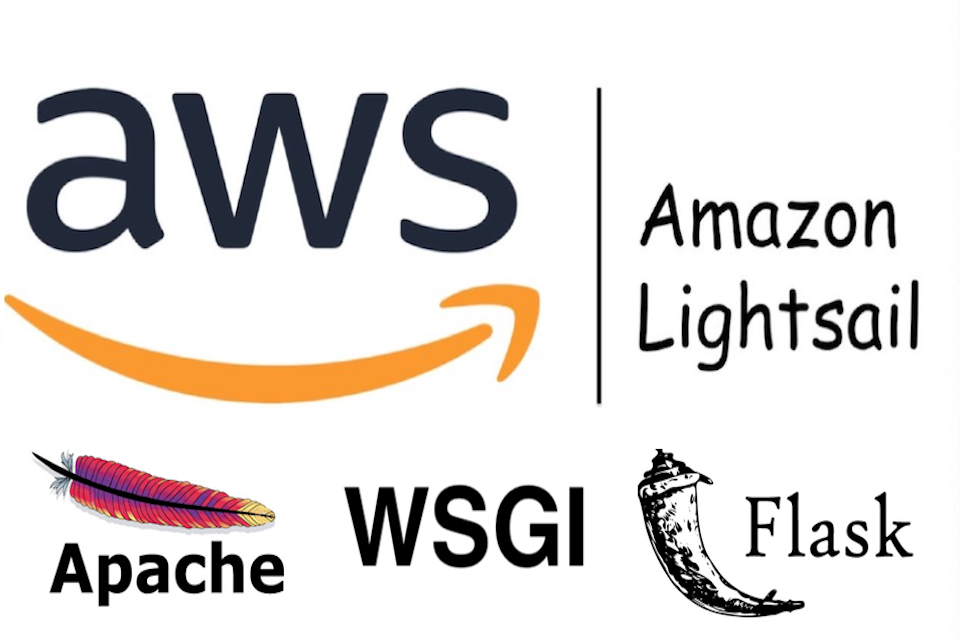
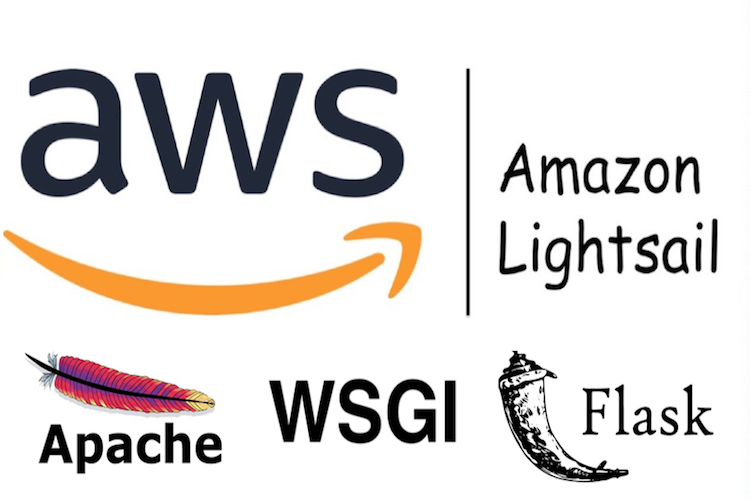
removed old png files

Changed region(s): [[0.6747, 0.78, 0.736, 0.9], [0.7973, 0.93, 0.828, 0.96], [0.7053, 0.9, 0.736, 0.93]]

diff --git a/source/_posts/multiple_flask_apps.md b/source/_posts/multiple_flask_apps.md
@@ -3,7 +3,7 @@ extends: _layouts.post
 section: content
 title: How to Setup Multiple Flask Web-Apps on an Apache2 Server Using WSGI.
 date: 2018-11-20
-cover_image: /assets/img/posts/multiple_flask_apps/feature.png
+cover_image: /assets/img/posts/multiple_flask_apps/feature.jpg
 description: In this talk, Matt unpacks the 3 cornerstone habits that paved the way to consistently grow as a software developer, balloon his professional network, easily share the best takeaways to begin building an audience — and of course, get his dream software job.
 categories: [software]
 ---
